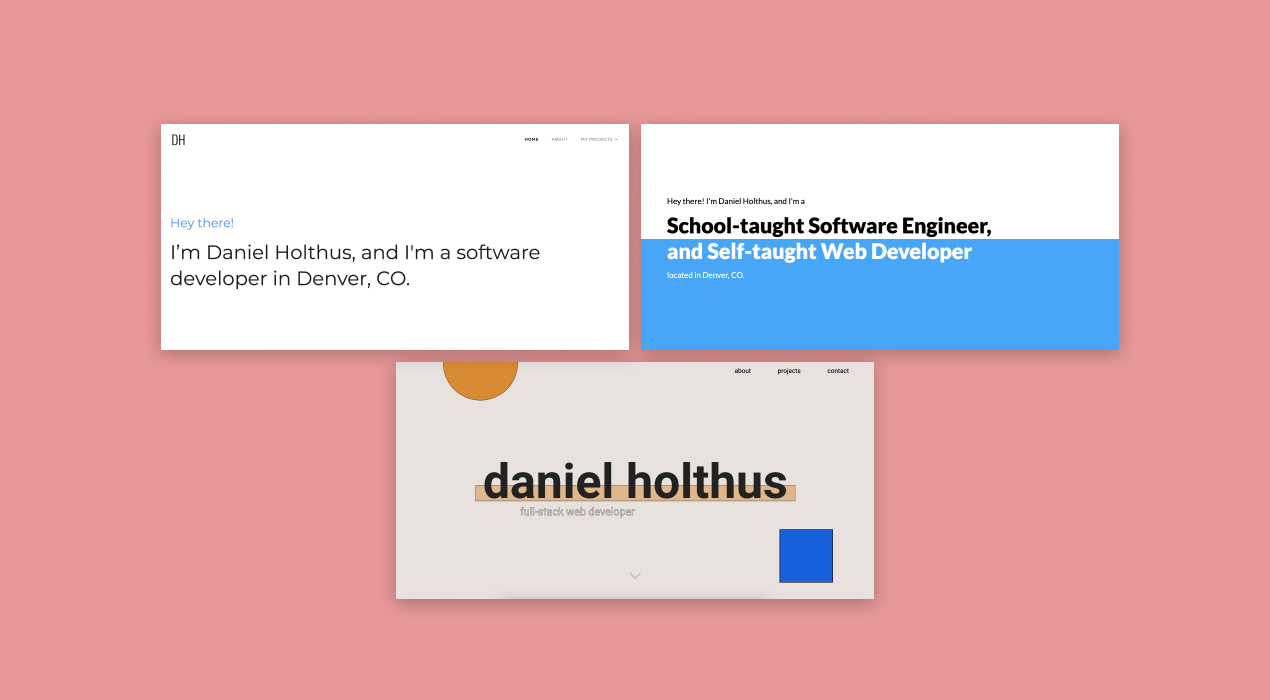
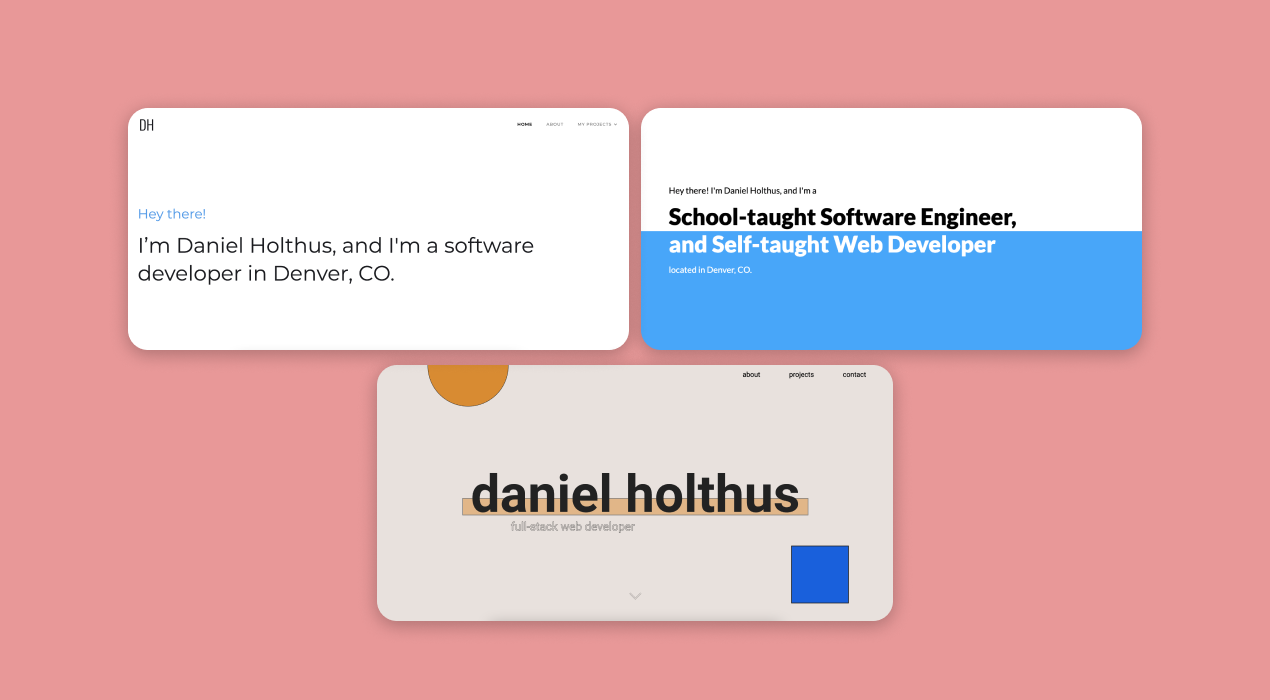
further progress on projects section

Changed region(s): [[0.0921, 0.15, 0.9213, 0.51], [0.2764, 0.48, 0.7063, 0.9]]

diff --git a/index.html b/index.html
@@ -39,7 +39,9 @@
       </section>
       <section class="projects">
         <div class="projects-square"></div>
-        <div class="projects-circle"></div>
+        <div class="projects-cross">
+          <img src="./img/cross-outline.svg" alt="cross outline" height="350" width="350" />
+        </div>
         <div class="projects-triangle">
           <img src="./img/triangle-outline.svg" alt="triangle with all three sides equal" height="400" width="400" />
         </div>
@@ -51,9 +53,9 @@
               <div class="content">
                 <h4>01 &#8212; Hoamsy</h4>
                 <p>Making platform improvements for an apartment and roommate search web application</p>
-                <h4>Role</h4>
+                <h4>My Role</h4>
                 <p>Full-Stack Web Development Intern</p>
-                <h4>Tech I used</h4>
+                <h4>Tech that I used</h4>
                 <p>Vue.js, Google Cloud Platform, HTML & CSS, Github, Figma</p>
                 <div class="project-links">
                   <a><button>See case study</button></a>
@@ -67,9 +69,9 @@
                 <h4>02 &#8212; Vote4Me</h4>
                 <p>Created a blockchain-based distributed voting
                   web application for my senior capstone project</p>
-                <h4>Role</h4>
+                <h4>My Role</h4>
                 <p>Full-Stack Web Developer & Team Leader</p>
-                <h4>Tech I used</h4>
+                <h4>Tech that I used</h4>
                 <p>Vue.js, HTML & CSS, Github, Figma</p>
                 <div class="project-links">
                   <a><button>See case study</button></a>
@@ -86,9 +88,9 @@
                   <h4>03 &#8212; Escape Room Text Adventure</h4>
                   <p>Designed an escape room text adventure game
                     using Python that is played using the terminal</p>
-                  <h4>Role</h4>
+                  <h4>My Role</h4>
                   <p>Python Developer</p>
-                  <h4>Tech I used</h4>
+                  <h4>Tech that I used</h4>
                   <p>Python, Github</p>
                 </div>
                 <div class="project-links">
@@ -103,9 +105,9 @@
                 <h4>04 &#8212; Portfolio Website</h4>
                 <p>Designed and developed my personal portfolio 
                   website over many lifecycles from start to finish</p>
-                <h4>Role</h4>
+                <h4>My Role</h4>
                 <p>Web Developer & Designer</p>
-                <h4>Tech I used</h4>
+                <h4>Tech that I used</h4>
                 <p>Javascript, HTML & CSS, Github, Figma</p>
                 <div class="project-links">
                   <a><button>See case study</button></a>

diff --git a/css/style.css b/css/style.css
@@ -4,9 +4,13 @@
   box-sizing: border-box;
 }
 
+html,
+body {
+  overflow-x: hidden;
+}
+
 body {
   font-family: "Roboto", sans-serif;
-  overflow-x: hidden;
 }
 
 nav {
@@ -162,7 +166,6 @@ nav a {
   position: absolute;
   top: -15%;
   left: 10%;
-  z-index: 10;
   border: 1px solid #222222;
 }
 
@@ -173,8 +176,8 @@ nav a {
   width: 24px;
   height: 24px;
   margin-left: -12px;
-  border-left: 4px double #222222;
-  border-bottom: 4px double #222222;
+  border-left: 2px solid #222222;
+  border-bottom: 2px solid #222222;
   -webkit-transform: rotate(-45deg);
   transform: rotate(-45deg);
   -webkit-animation: scrolldown 2s infinite 1s;
@@ -190,33 +193,45 @@ nav a {
   display: flex;
   flex-direction: column;
   align-items: center;
-  background-color: #f0f0f0;
+  background-color: #e7e7e7;
   border-bottom: 1px solid #222222;
 }
 
 .projects-square {
   position: absolute;
-  height: 320px;
-  width: 320px;
+  height: 280px;
+  width: 280px;
   border: 1px solid #222222;
-  top: 116%;
-  left: -1%;
-  transform: rotate(10deg);
+  border-radius: 2%;
+  top: 114%;
+  left: 0;
+  transform: rotate(25deg);
 }
 
-.projects-circle {
-  position: absolute;
-  height: 200px;
-  width: 200px;
-  border-radius: 50%;
-  background: transparent;
+/* .projects-circle {
+  position: relative;
+  z-index: 1;
+  height: 280px;
+  width: 280px;
   border: 1px solid #222222;
+  border-radius: 50%;
+  left: 0;
+  top: -40px;
+  overflow: hidden;
+} */
+
+.projects-cross {
+  position: absolute;
+  top: 300vh;
+  left: 3%;
+  transform: rotate(45deg);
+  overflow: hidden;
 }
 
 .projects-triangle {
   position: absolute;
   top: 200%;
-  left: 87%;
+  left: 80%;
   transform: rotate(5deg);
 }
 
@@ -234,25 +249,25 @@ nav a {
   max-width: 80%;
   justify-content: space-between;
   align-items: center;
-  margin-bottom: 6rem;
 }
 
 .project-cards-row {
   display: flex;
   justify-content: space-between;
   align-items: top;
+  margin-bottom: 4rem;
 }
 
 .project {
   display: block;
   border: 2px solid #222222;
-  max-width: 47%;
+  max-width: 46%;
   position: relative;
 }
 
 .project-cards-row .project-1,
 .project-cards-row .project-3 {
-  margin-bottom: 80px;
+  margin-bottom: 60px;
 }
 
 .project-cards-row .project-2,
@@ -292,12 +307,26 @@ nav a {
   margin-top: 2.5rem;
 }
 
+.project-1 button {
+  background-color: #f2b666b6;
+}
+
+.project-2 button {
+  background-color: #5d81efb6;
+}
+
+.project-3 button {
+  background-color: #98c379b6;
+}
+
+.project-4 button {
+  background-color: #e89898b6;
+}
+
 .projects button {
   border-radius: 5%;
   border: 1px solid #222222;
   padding: 6px;
-  background-color: #e4890081;
-  color: #222222;
 }
 
 .projects button:hover {

diff --git a/js/animations.js b/js/animations.js
@@ -57,26 +57,38 @@ let tl8 = gsap.timeline({
     }
 });
 
-//timeline for projects shapes 
+//timeline for projects square 
 let tl9 = gsap.timeline({
     scrollTrigger: {
         trigger: '.projects',
         start: 'top bottom',
-    }
+    },
+    repeat: -1
 });
 
-let tl10 = gsap.timeline({
+//timeline for projects triangle
+let tl11 = gsap.timeline({
     scrollTrigger: {
         trigger: '.projects-triangle',
         start: 'top bottom',
-    }
+    },
+    repeat: -1,
+});
+
+//timeline for projects cross
+let tl12 = gsap.timeline({
+    scrollTrigger: {
+        trigger: '.projects-cross',
+        start: 'top bottom',
+    },
+    repeat: -1
 });
 
 // tl.to('.intro-span-text', {y: '0%', duration: 1, stagger: 0.25})
 // .to('.slider', {y: "-100%", duration: 1.5, delay: 3})
 // .to('.intro', {y: "-100%", duration: 1}, "-=1")
 
-tl2.to('.name-logo', {scale: 1, top: '2%', left: '4%', x: '50%', y: '50%'});
+tl2.to('.name-logo', {scale: 1, x: '-43vw', y: '-45.5vh'});
 
 tl3.to('.home-square', {rotation: 90, left: '105%', opacity: 0});
 
@@ -90,10 +102,13 @@ tl7.fromTo('.project-1', {opacity: 0, top: '20px'}, {opacity: 1, top: 0})
 tl8.fromTo('.project-3', {opacity: 0, top: '20px'}, {opacity: 1, top: 0})
     .fromTo('.project-4', {opacity: 0, top: '20px'}, {opacity: 1, top: 0,}, '-=0.2');
 
-tl9.to('.projects-square', {duration: 110, x: '100vw', y: '20vh', rotation: 360, ease:'linear'})
-    .to('.projects-square', {duration: 120, x: '-90vw', y: '20vh', rotation: -360, ease: 'linear'})
+tl9.to('.projects-square', {duration: 60, x: '105vw', y: '20vh', rotation: 340, ease:'linear'})
+    .to('.projects-square', {duration: 100, x: '-100vw', y: '20vh', rotation: -360, ease: 'linear'})
     
     
-tl10.to('.projects-triangle', {duration: 90, x: '-100vw', y: '-20vh', rotation: -360, ease:'linear'})
-    .to('.projects-triangle', {duration: 105, x: '90vw', y: '20vh', rotation: 360, ease: 'linear'});
+tl11.to('.projects-triangle', {duration: 70, x: '-105vw', y: '-20vh', rotation: -340, ease:'linear'})
+    .to('.projects-triangle', {duration: 100, x: '100vw', y: '20vh', rotation: 360, ease: 'linear'});
+
+tl12.to('.projects-cross', {duration: 80, x: '105vw', y: '-80vh', rotation: 340, ease:'linear'})
+    .to('.projects-cross', {duration: 120, x: '-100vw', y: '20vh', rotation: -360, ease: 'linear'})
 
